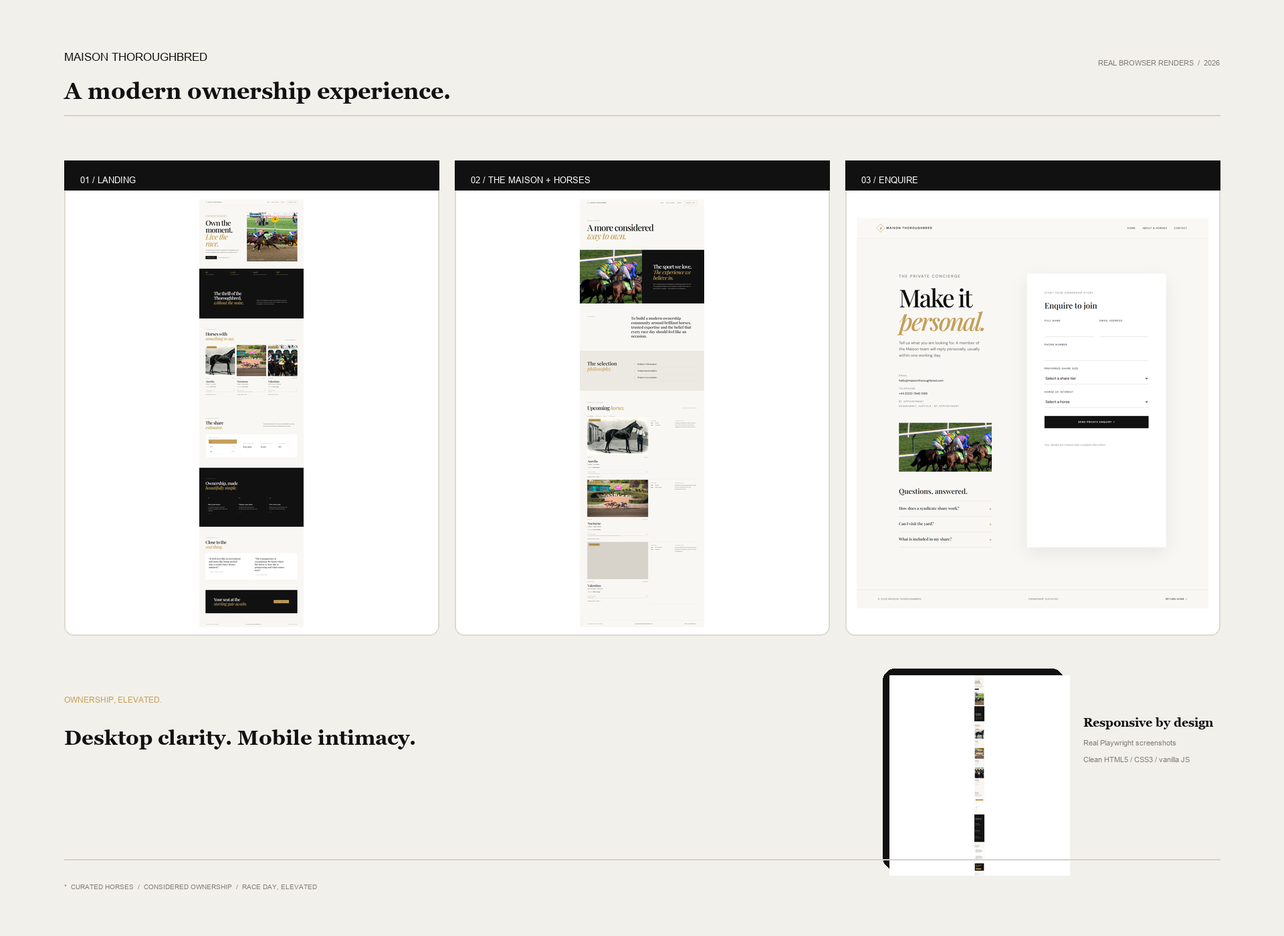
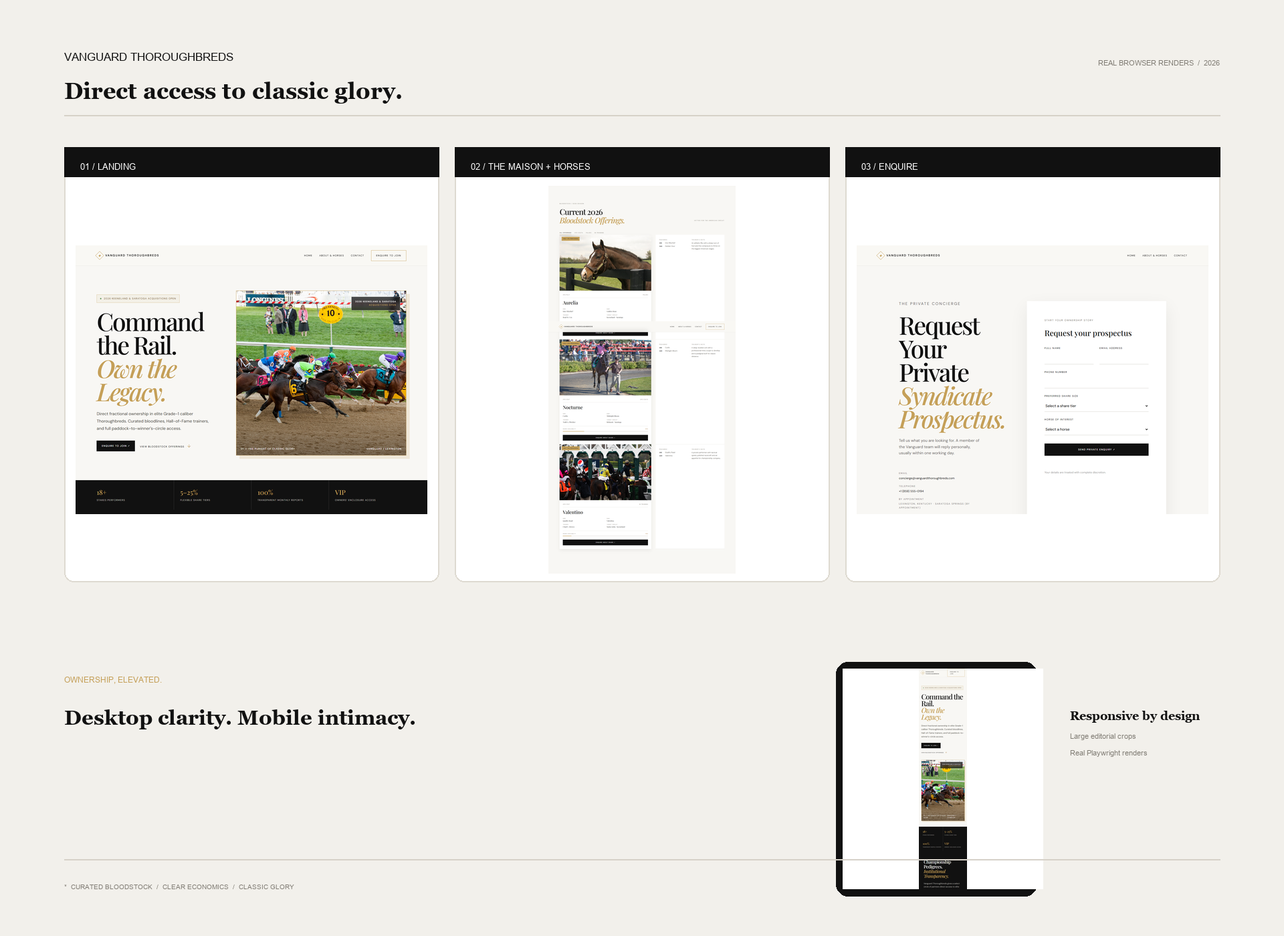
Elevate syndicate brand and presentation

diff --git a/site-content.js b/site-content.js
@@ -1,42 +1,42 @@
 // Central editing file: update the brand, inbox, copy, horse profiles and image paths here.
 window.SYNDICATE_CONFIG = {
-  brand: { name: "Maison Thoroughbred", shortName: "Maison TB", tagline: "Ownership, elevated.", colors: { charcoal: "#111111", white: "#FFFFFF", warmWhite: "#F8F7F4", gold: "#C5A059" } },
-  contact: { email: "hello@maisonthoroughbred.com", phone: "+44 (0)20 7946 0188", location: "Newmarket, Suffolk · By appointment" },
+  brand: { name: "Vanguard Thoroughbreds", shortName: "Vanguard TB", tagline: "Command the rail. Own the legacy.", colors: { charcoal: "#111111", white: "#FFFFFF", warmWhite: "#F8F7F4", gold: "#C5A059" } },
+  contact: { email: "concierge@vanguardthoroughbreds.com", phone: "+1 (859) 555-0194", location: "Lexington, Kentucky · Saratoga Springs (by appointment)" },
   images: { hero: "images/hero-racehorse.jpg", story: "images/story-horse.jpg", horses: ["images/horse-1.jpg", "images/horse-2.jpg", "images/horse-3.jpg"] },
   home: {
-    status: "2026 Racing Season · Shares now open",
-    headline: "Own the moment.<br><em>Live the race.</em>",
-    intro: "A private circle of owners, exceptional Thoroughbreds and a more considered way to experience the sport we love.",
-    valueTitle: "The thrill of the Thoroughbred, <em>without the noise.</em>",
-    valueBody: "Maison Thoroughbred curates the bloodstock, expertise and access. You join the story with complete clarity, from first gallop to winner’s enclosure.",
+    status: "2026 Keeneland & Saratoga acquisitions open",
+    headline: "Command the Rail.<br><em>Own the Legacy.</em>",
+    intro: "Direct fractional ownership in elite Grade-1 caliber Thoroughbreds. Curated bloodlines, Hall-of-Fame trainers, and full paddock-to-winner's-circle access.",
+    valueTitle: "Championship Pedigrees.<br><em>Institutional Transparency.</em>",
+    valueBody: "Vanguard Thoroughbreds gives a select circle of partners direct access to elite bloodstock, disciplined reporting and the moments that define a racing legacy.",
     metrics: [["18+", "Stakes performers"], ["5–25%", "Flexible share tiers"], ["100%", "Transparent monthly reports"], ["VIP", "Owners’ enclosure access"]],
     steps: [
-      { number: "01", title: "Meet your horse", body: "A considered shortlist of athletes chosen for pedigree, performance and potential." },
-      { number: "02", title: "Choose your share", body: "Flexible 5%, 10% and 25% tiers, structured with clarity from day one." },
-      { number: "03", title: "Live every race", body: "Stable access, monthly reports and the electric theatre of race day." }
+      { number: "01", title: "Select the bloodline", body: "Review a disciplined shortlist of Grade-1 caliber athletes selected for pedigree, athleticism and upside." },
+      { number: "02", title: "Define your equity", body: "Choose a transparent 5%, 10% or 25% ownership position with economics understood upfront." },
+      { number: "03", title: "Enter the circle", body: "Receive every training report, paddock invitation and race-day access from first work to winner's circle." }
     ],
     testimonials: [
-      ["“It feels less like an investment and more like being invited into a world I have always admired.”", "— James W., Founder & owner"],
-      ["“The transparency is exceptional. We know where the horse is, how she is progressing and what comes next.”", "— Olivia R., Maison owner"]
+      ["“Vanguard delivers the rare combination of elite access and institutional-level reporting. Every decision is made with conviction.”", "— James W., Founding Partner"],
+      ["“The bloodstock is exceptional, but the discipline around ownership is what sets this syndicate apart.”", "— Olivia R., Vanguard Partner"]
     ]
   },
   about: {
     eyebrow: "Heritage, reimagined",
-    headline: "A more considered<br><em>way to own.</em>",
-    storyTitle: "The sport we love.<br><em>The experience we believe in.</em>",
-    storyBody: "Born in Newmarket and shaped by a lifelong respect for the Thoroughbred, Maison was created for people who want to feel closer to racing — not buried in its complexity.",
-    mission: "To build a modern ownership community around brilliant horses, trusted expertise and the belief that every race day should feel like an occasion.",
-    philosophy: ["Pedigree with purpose", "Temperament matters", "Progress over promise"]
+    headline: "Built for the<br><em>Pursuit of Classic Glory.</em>",
+    storyTitle: "American racing heritage.<br><em>Modern ownership discipline.</em>",
+    storyBody: "Vanguard was built for partners who expect more from Thoroughbred ownership: uncommon bloodlines, respected trainers, precise communication and a seat inside the sport's defining moments.",
+    mission: "To compound the power of elite American racing through disciplined bloodstock selection, clear economics and a true owner's proximity to the horse.",
+    philosophy: ["Pedigree with purpose", "Athleticism under pressure", "Performance over promise"]
   },
   horses: [
-    { name: "Aurelia", category: "Fillies", age: "3yo filly", pedigree: "Frankel × Luna Mare", sire: "Frankel", dam: "Luna Mare", trainer: "Ralph Beckett", availability: "2 shares remaining", remaining: 20, image: 0, note: "A balanced, athletic filly with an electric turn of foot. Her first two starts have suggested a deep well of improvement." },
-    { name: "Nocturne", category: "2YO Colts", age: "2yo colt", pedigree: "Dubawi × Night Garden", sire: "Dubawi", dam: "Night Garden", trainer: "Charlie Appleby", availability: "Taking reservations", remaining: 55, image: 1, note: "Beautifully bred and progressing through his early education with a calm, professional attitude." },
-    { name: "Valentino", category: "In Training", age: "4yo gelding", pedigree: "Sea The Stars × Valentina", sire: "Sea The Stars", dam: "Valentina", trainer: "William Haggas", availability: "1 share remaining", remaining: 10, image: 2, note: "A proven performer with the attitude and experience to make this season his most compelling yet." }
+    { name: "Aurelia", category: "Fillies", age: "3yo filly", pedigree: "Into Mischief × Golden Hour", sire: "Into Mischief", dam: "Golden Hour", trainer: "Brad H. Cox", circuit: "Keeneland / Saratoga", availability: "Only 15% remaining", remaining: 15, image: 0, note: "An athletic filly with a sharp turn of foot and the composure to thrive on the biggest American stages." },
+    { name: "Nocturne", category: "2YO Colts", age: "2yo colt", pedigree: "Curlin × Midnight Bloom", sire: "Curlin", dam: "Midnight Bloom", trainer: "Todd A. Pletcher", circuit: "Belmont / Saratoga", availability: "Only 25% remaining", remaining: 25, image: 1, note: "A deep-bodied colt with a professional mind, scope to develop and a pedigree built for classic distance." },
+    { name: "Valentino", category: "In Training", age: "4yo colt", pedigree: "Quality Road × Valentina", sire: "Quality Road", dam: "Valentina", trainer: "Chad C. Brown", circuit: "Santa Anita / Keeneland", availability: "Only 10% remaining", remaining: 10, image: 2, note: "A proven performer with tactical speed, polished racecraft and an appetite for championship company." }
   ],
   faqs: [
     ["How does a syndicate share work?", "You own a defined percentage of a racehorse through a simple syndicate structure. We manage the day-to-day detail and keep you close to every milestone."],
     ["Can I visit the yard?", "Yes. Owners are invited to private stable mornings and selected gallops visits by appointment."],
-    ["What is included in my share?", "Your share includes the horse, training and ownership administration described in the relevant schedule, plus invitations to Maison owner experiences."]
+    ["What is included in my share?", "Your share includes the horse, training and ownership administration described in the relevant schedule, plus invitations to Vanguard partner experiences."]
   ]
 };
 
@@ -79,8 +79,8 @@ window.SYNDICATE_CONFIG = {
 
 function horseCard(horse, config) {
   return `<article class="horse-card" data-category="${horse.category}">
-    <div class="horse-image-wrap"><img src="${config.images.horses[horse.image]}" alt="${horse.name}, ${horse.pedigree}" loading="lazy"><span class="availability">${horse.availability}</span></div>
-    <div class="horse-card-body"><div class="horse-topline"><span>${horse.age}</span><span>${horse.category}</span></div><h3>${horse.name}</h3><p class="pedigree">${horse.pedigree}</p><p class="trainer">Trained by <strong>${horse.trainer}</strong></p><div class="share-row"><span>Share availability</span><strong>${horse.remaining}%</strong></div><div class="progress"><span style="width:${horse.remaining}%"></span></div><a class="text-link" href="contact.html?horse=${encodeURIComponent(horse.name)}">Enquire about share <span>↗</span></a></div>
+    <div class="horse-image-wrap"><img src="${config.images.horses[horse.image]}" alt="${horse.name}, ${horse.pedigree}" loading="eager"><span class="availability">${horse.availability}</span></div>
+    <div class="horse-card-body"><div class="horse-topline"><span>${horse.age}</span><span>${horse.category}</span></div><h3>${horse.name}</h3><div class="pedigree-grid"><span><b>Sire</b>${horse.sire}</span><span><b>Dam</b>${horse.dam}</span><span><b>Trainer</b>${horse.trainer}</span><span><b>Target circuit</b>${horse.circuit}</span></div><div class="share-row"><span>Share availability</span><strong>${horse.remaining}%</strong></div><div class="progress"><span style="width:${horse.remaining}%"></span></div><a class="button dark card-button" href="contact.html?horse=${encodeURIComponent(horse.name)}">Enquire about share <span>↗</span></a></div>
   </article>`;
 }
 

diff --git a/index.html b/index.html
@@ -1,18 +1,18 @@
 <!doctype html>
 <html lang="en">
-<head><meta charset="utf-8"><meta name="viewport" content="width=device-width, initial-scale=1"><title>Maison Thoroughbred — Ownership, elevated.</title><meta name="description" content="A private circle of owners, exceptional Thoroughbreds and a more considered way to experience racing."><link rel="preconnect" href="https://fonts.googleapis.com"><link rel="preconnect" href="https://fonts.gstatic.com" crossorigin><link href="https://fonts.googleapis.com/css2?family=DM+Sans:wght@400;500;600&family=Playfair+Display:ital,wght@0,500;1,500&display=swap" rel="stylesheet"><link rel="stylesheet" href="styles.css"><link rel="stylesheet" href="styles-enhancements.css"></head>
+<head><meta charset="utf-8"><meta name="viewport" content="width=device-width, initial-scale=1"><title>Vanguard Thoroughbreds — Command the Rail.</title><meta name="description" content="Direct fractional ownership in elite Grade-1 caliber Thoroughbreds with Vanguard Thoroughbreds."><link rel="preconnect" href="https://fonts.googleapis.com"><link rel="preconnect" href="https://fonts.gstatic.com" crossorigin><link href="https://fonts.googleapis.com/css2?family=DM+Sans:wght@400;500;600&family=Playfair+Display:ital,wght@0,500;1,500&display=swap" rel="stylesheet"><link rel="stylesheet" href="styles.css"><link rel="stylesheet" href="styles-enhancements.css"></head>
 <body data-page="home">
-<nav class="nav"><a class="logo" href="index.html"><span class="logo-mark"><span>✦</span></span><span data-brand>Maison Thoroughbred</span></a><div class="nav-links"><a href="index.html">Home</a><a href="about.html">About & Horses</a><a href="contact.html">Contact</a><a class="button" href="contact.html">Enquire to join</a></div></nav>
+<nav class="nav"><a class="logo" href="index.html"><span class="logo-mark"><span>✦</span></span><span data-brand>Vanguard Thoroughbreds</span></a><div class="nav-links"><a href="index.html">Home</a><a href="about.html">About & Horses</a><a href="contact.html">Contact</a><a class="button" href="contact.html">Enquire to join</a></div></nav>
 <main>
-<section class="hero"><div class="hero-copy"><span class="status-pill" data-status></span><h1 data-home-headline></h1><p class="intro" data-home-intro></p><div class="hero-actions"><a class="button dark" href="contact.html">Enquire to join <span>↗</span></a><a class="arrow-link" href="#horses">View upcoming horses <span>↓</span></a></div></div><div class="hero-media"><img data-hero-image alt="Thoroughbred racehorses breaking from the starting gate"><div class="media-caption"><span>01 — The pursuit of extraordinary</span><span>Maison / Newmarket</span></div></div></section>
+<section class="hero"><div class="hero-copy"><span class="status-pill" data-status></span><h1 data-home-headline></h1><p class="intro" data-home-intro></p><div class="hero-actions"><a class="button dark" href="contact.html">Enquire to join <span>↗</span></a><a class="arrow-link" href="#horses">View bloodstock offerings <span>↓</span></a></div></div><div class="hero-media"><img data-hero-image alt="Thoroughbred racehorses breaking from the starting gate" loading="eager"><span class="live-stat">2026 KEENELAND &amp; SARATOGA<br><b>ACQUISITIONS OPEN</b></span><div class="media-caption"><span>01 — The pursuit of classic glory</span><span>Vanguard / Lexington</span></div></div></section>
 <section class="metrics" data-metrics></section>
 <section class="value"><h2 data-value-title></h2><p data-value-body></p></section>
-<section class="section" id="horses"><div class="section-heading"><div><p class="eyebrow">The 2026 collection</p><h2>Horses with<br><em>something to say.</em></h2></div><a class="arrow-link" href="about.html">View all bloodstock <span>↗</span></a></div><div class="horse-grid-preview" data-home-horses></div></section>
-<section class="section estimator"><div class="section-heading"><div><p class="eyebrow">Your ownership, modelled</p><h2>The share<br><em>estimator.</em></h2></div><p class="intro">A simple illustration of how your participation can look. Every horse and share is individually structured.</p></div><div class="estimator-box"><div class="share-options"><p class="eyebrow">Choose your share</p><button class="share-option active" data-share="5">5%<span>Entry</span></button><button class="share-option" data-share="10">10%<span>Classic</span></button><button class="share-option" data-share="25">25%<span>Principal</span></button></div><div class="estimate-results"><div><span>Example upfront share</span><strong data-cost>£12,500</strong></div><div><span>Estimated monthly keep</span><strong data-keep>£225</strong></div><div><span>Prize money split</span><strong data-prize>5%</strong></div></div></div></section>
-<section class="section dark-section"><div class="section-heading"><div><p class="eyebrow">The Maison method</p><h2>Ownership, made<br><em>beautifully simple.</em></h2></div></div><div class="editorial-cards" data-steps></div></section>
-<section class="section"><div class="section-heading"><div><p class="eyebrow">The owner’s perspective</p><h2>Close to the<br><em>real thing.</em></h2></div></div><div class="testimonials" data-testimonials></div></section>
+<section class="section" id="horses"><div class="section-heading"><div><p class="eyebrow">The 2026 collection</p><h2>Current 2026<br><em>Bloodstock Offerings.</em></h2></div><a class="arrow-link" href="about.html">View all bloodstock <span>↗</span></a></div><div class="horse-grid-preview" data-home-horses></div></section>
+<section class="section estimator"><div class="section-heading"><div><p class="eyebrow">Your ownership, modelled</p><h2>Transparent Ownership<br><em>Economics.</em></h2></div><p class="intro">An illustrative view of your equity position. Every acquisition is individually structured and disclosed in full.</p></div><div class="estimator-box"><div class="share-options"><p class="eyebrow">Choose your share</p><button class="share-option active" data-share="5">5%<span>Entry</span></button><button class="share-option" data-share="10">10%<span>Classic</span></button><button class="share-option" data-share="25">25%<span>Principal</span></button></div><div class="estimate-results"><div><span>Initial acquisition</span><strong data-cost>$12,500</strong></div><div><span>Monthly training &amp; keep</span><strong data-keep>$225</strong></div><div><span>Equity share</span><strong data-prize>5%</strong></div></div></div></section>
+<section class="section dark-section"><div class="section-heading"><div><p class="eyebrow">The Vanguard method</p><h2>From the Sales Ring<br><em>to the Winner's Circle.</em></h2></div></div><div class="editorial-cards" data-steps></div></section>
+<section class="section"><div class="section-heading"><div><p class="eyebrow">The partner perspective</p><h2>Inside the<br><em>Owners' Circle.</em></h2></div></div><div class="testimonials" data-testimonials></div></section>
 <section class="cta"><h2>Your seat at the<br><em>starting gate awaits.</em></h2><a class="button gold" href="contact.html">Begin the conversation <span>↗</span></a></section>
-</main><footer class="footer"><span>© 2026 <span data-brand>Maison Thoroughbred</span></span><a data-email></a><span>Ownership, elevated.</span></footer>
+</main><footer class="footer"><span>© 2026 <span data-brand>Vanguard Thoroughbreds</span></span><a data-email></a><span>Ownership, elevated.</span></footer>
 <script src="site-content.js"></script><script>
-const shares={5:{cost:"£12,500",keep:"£225"},10:{cost:"£25,000",keep:"£450"},25:{cost:"£62,500",keep:"£1,125"}};document.querySelectorAll("[data-share]").forEach((button)=>button.addEventListener("click",()=>{document.querySelectorAll("[data-share]").forEach((item)=>item.classList.remove("active"));button.classList.add("active");const share=button.dataset.share;document.querySelector("[data-cost]").textContent=shares[share].cost;document.querySelector("[data-keep]").textContent=shares[share].keep;document.querySelector("[data-prize]").textContent=`${share}%`;}));
+const shares={5:{cost:"$12,500",keep:"$225"},10:{cost:"$25,000",keep:"$450"},25:{cost:"$62,500",keep:"$1,125"}};document.querySelectorAll("[data-share]").forEach((button)=>button.addEventListener("click",()=>{document.querySelectorAll("[data-share]").forEach((item)=>item.classList.remove("active"));button.classList.add("active");const share=button.dataset.share;document.querySelector("[data-cost]").textContent=shares[share].cost;document.querySelector("[data-keep]").textContent=shares[share].keep;document.querySelector("[data-prize]").textContent=`${share}%`;}));
 </script></body></html>

diff --git a/contact.html b/contact.html
@@ -1,11 +1,11 @@
 <!doctype html>
 <html lang="en">
-<head><meta charset="utf-8"><meta name="viewport" content="width=device-width, initial-scale=1"><title>Enquire to Join — Maison Thoroughbred</title><meta name="description" content="Speak with the Maison Thoroughbred concierge about racehorse ownership."><link rel="preconnect" href="https://fonts.googleapis.com"><link rel="preconnect" href="https://fonts.gstatic.com" crossorigin><link href="https://fonts.googleapis.com/css2?family=DM+Sans:wght@400;500;600&family=Playfair+Display:ital,wght@0,500;1,500&display=swap" rel="stylesheet"><link rel="stylesheet" href="styles.css"></head>
+<head><meta charset="utf-8"><meta name="viewport" content="width=device-width, initial-scale=1"><title>Private Prospectus — Vanguard Thoroughbreds</title><meta name="description" content="Request a private Vanguard Thoroughbreds syndicate prospectus."><link rel="preconnect" href="https://fonts.googleapis.com"><link rel="preconnect" href="https://fonts.gstatic.com" crossorigin><link href="https://fonts.googleapis.com/css2?family=DM+Sans:wght@400;500;600&family=Playfair+Display:ital,wght@0,500;1,500&display=swap" rel="stylesheet"><link rel="stylesheet" href="styles.css"></head>
 <body data-page="contact">
-<nav class="nav"><a class="logo" href="index.html"><span class="logo-mark"><span>✦</span></span><span data-brand>Maison Thoroughbred</span></a><div class="nav-links"><a href="index.html">Home</a><a href="about.html">About & Horses</a><a href="contact.html">Contact</a></div></nav>
-<main class="contact-layout"><section class="contact-copy"><p class="eyebrow">The private concierge</p><h1>Make it<br><em>personal.</em></h1><p>Tell us what you are looking for. A member of the Maison team will reply personally, usually within one working day.</p><div class="contact-details"><p><span>Email</span><a data-email></a></p><p><span>Telephone</span><a data-phone></a></p><p><span>By appointment</span><span data-location></span></p></div><div class="contact-hero"><img data-contact-hero alt="Thoroughbred in the stable yard" loading="lazy"></div><div class="faq"><h2>Questions, answered.</h2><div data-faqs></div></div></section>
-<section class="form-card"><p class="eyebrow">Start your ownership story</p><h2>Enquire to join</h2><form id="enquiry-form" method="POST" novalidate><input type="hidden" name="_subject" value="New Maison Thoroughbred enquiry"><div class="form-grid"><div class="field"><label for="name">Full name</label><input id="name" name="name" autocomplete="name" required></div><div class="field"><label for="email">Email address</label><input id="email" name="email" type="email" autocomplete="email" required></div></div><div class="field"><label for="phone">Phone number</label><input id="phone" name="phone" type="tel" autocomplete="tel" required></div><div class="field"><label for="share">Preferred share size</label><select id="share" name="share" required><option value="">Select a share tier</option><option>5% — Entry</option><option>10% — Classic</option><option>25% — Principal</option></select></div><div class="field"><label for="interest">Horse of interest</label><select id="interest" name="interest" data-horse-options required></select></div><button class="submit" type="submit">Send private enquiry <span>↗</span></button><p class="status" id="form-status" role="status"></p><p class="fine-print">Your details are treated with complete discretion.</p></form></section></main>
-<footer class="footer"><span>© 2026 <span data-brand>Maison Thoroughbred</span></span><span>Ownership, elevated.</span><a href="index.html">Return home ↗</a></footer>
+<nav class="nav"><a class="logo" href="index.html"><span class="logo-mark"><span>✦</span></span><span data-brand>Vanguard Thoroughbreds</span></a><div class="nav-links"><a href="index.html">Home</a><a href="about.html">About & Horses</a><a href="contact.html">Contact</a></div></nav>
+<main class="contact-layout"><section class="contact-copy"><p class="eyebrow">The private concierge</p><h1>Request Your Private<br><em>Syndicate Prospectus.</em></h1><p>Tell us what you are looking for. A member of the Vanguard team will reply personally, usually within one working day.</p><div class="contact-details"><p><span>Email</span><a data-email></a></p><p><span>Telephone</span><a data-phone></a></p><p><span>By appointment</span><span data-location></span></p></div><div class="contact-hero"><img data-contact-hero alt="Thoroughbred in the stable yard" loading="eager"></div><div class="faq"><h2>Questions, answered.</h2><div data-faqs></div></div></section>
+<section class="form-card"><p class="eyebrow">Start your ownership story</p><h2>Request your prospectus</h2><form id="enquiry-form" method="POST" novalidate><input type="hidden" name="_subject" value="New Vanguard Thoroughbreds prospectus request"><div class="form-grid"><div class="field"><label for="name">Full name</label><input id="name" name="name" autocomplete="name" required></div><div class="field"><label for="email">Email address</label><input id="email" name="email" type="email" autocomplete="email" required></div></div><div class="field"><label for="phone">Phone number</label><input id="phone" name="phone" type="tel" autocomplete="tel" required></div><div class="field"><label for="share">Preferred share size</label><select id="share" name="share" required><option value="">Select a share tier</option><option>5% — Entry</option><option>10% — Classic</option><option>25% — Principal</option></select></div><div class="field"><label for="interest">Horse of interest</label><select id="interest" name="interest" data-horse-options required></select></div><button class="submit" type="submit">Send private enquiry <span>↗</span></button><p class="status" id="form-status" role="status"></p><p class="fine-print">Your details are treated with complete discretion.</p></form></section></main>
+<footer class="footer"><span>© 2026 <span data-brand>Vanguard Thoroughbreds</span></span><span>Ownership, elevated.</span><a href="index.html">Return home ↗</a></footer>
 <script src="site-content.js"></script><script>
 const config=window.SYNDICATE_CONFIG,form=document.getElementById("enquiry-form"),status=document.getElementById("form-status"),interest=document.getElementById("interest"),horse=new URLSearchParams(location.search).get("horse");if(horse)interest.value=horse;form.action=`https://formsubmit.co/${config.contact.email}`;form.addEventListener("submit",(event)=>{event.preventDefault();status.className="status";const empty=[...form.querySelectorAll("[required]")].find((field)=>!field.value.trim()),email=document.getElementById("email");if(empty){status.textContent=`Please add your ${empty.labels[0].textContent.toLowerCase()}.`;status.classList.add("error");empty.focus();return;}if(!/^[^\s@]+@[^\s@]+\.[^\s@]+$/.test(email.value)){status.textContent="Please enter a valid email address.";status.classList.add("error");email.focus();return;}status.textContent="Sending your private enquiry…";fetch(form.action,{method:"POST",body:new FormData(form),headers:{Accept:"application/json"}}).then((response)=>{if(!response.ok)throw new Error("Unable to send");status.textContent="Thank you — your enquiry is on its way.";status.classList.add("success");form.reset();}).catch(()=>{const data=[...new FormData(form)].map(([key,value])=>`${key}: ${value}`).join("%0A");window.location.href=`mailto:${config.contact.email}?subject=New enquiry from ${encodeURIComponent(document.getElementById("name").value)}&body=${data}`;status.textContent="Opening your email app to complete the enquiry.";status.classList.add("success");});});
 </script></body></html>

diff --git a/about.html b/about.html
@@ -1,11 +1,11 @@
 <!doctype html>
 <html lang="en">
-<head><meta charset="utf-8"><meta name="viewport" content="width=device-width, initial-scale=1"><title>About & Upcoming Horses — Maison Thoroughbred</title><meta name="description" content="Discover Maison Thoroughbred's heritage, bloodstock philosophy and upcoming horses."><link rel="preconnect" href="https://fonts.googleapis.com"><link rel="preconnect" href="https://fonts.gstatic.com" crossorigin><link href="https://fonts.googleapis.com/css2?family=DM+Sans:wght@400;500;600&family=Playfair+Display:ital,wght@0,500;1,500&display=swap" rel="stylesheet"><link rel="stylesheet" href="styles.css"></head>
+<head><meta charset="utf-8"><meta name="viewport" content="width=device-width, initial-scale=1"><title>About & Upcoming Horses — Vanguard Thoroughbreds</title><meta name="description" content="Discover Vanguard Thoroughbreds' heritage, bloodstock philosophy and upcoming horses."><link rel="preconnect" href="https://fonts.googleapis.com"><link rel="preconnect" href="https://fonts.gstatic.com" crossorigin><link href="https://fonts.googleapis.com/css2?family=DM+Sans:wght@400;500;600&family=Playfair+Display:ital,wght@0,500;1,500&display=swap" rel="stylesheet"><link rel="stylesheet" href="styles.css"><link rel="stylesheet" href="styles-enhancements.css"></head>
 <body data-page="about">
-<nav class="nav"><a class="logo" href="index.html"><span class="logo-mark"><span>✦</span></span><span data-brand>Maison Thoroughbred</span></a><div class="nav-links"><a href="index.html">Home</a><a href="about.html">About & Horses</a><a href="contact.html">Contact</a><a class="button" href="contact.html">Enquire to join</a></div></nav>
+<nav class="nav"><a class="logo" href="index.html"><span class="logo-mark"><span>✦</span></span><span data-brand>Vanguard Thoroughbreds</span></a><div class="nav-links"><a href="index.html">Home</a><a href="about.html">About & Horses</a><a href="contact.html">Contact</a><a class="button" href="contact.html">Enquire to join</a></div></nav>
 <main><header class="page-head"><p class="eyebrow" data-about-eyebrow></p><h1 data-about-headline></h1></header>
 <section class="story"><div class="story-image"><img data-story-image alt="Thoroughbred horse in a paddock" loading="eager"></div><div class="story-copy"><h2 data-story-title></h2><p data-story-body></p></div></section>
 <section class="mission"><p class="eyebrow">Our mission</p><p data-mission></p></section>
 <section class="philosophy"><h2>The selection<br><em>philosophy.</em></h2><ul data-philosophy></ul></section>
-<section class="horses"><div class="section-heading"><div><p class="eyebrow">Bloodstock / 2026 season</p><h2>Upcoming <em>horses.</em></h2></div><p class="eyebrow">Selected with intention</p></div><div class="filter-tabs"><button class="active" data-filter="All">All horses</button><button data-filter="2YO Colts">2YO colts</button><button data-filter="Fillies">Fillies</button><button data-filter="In Training">In training</button></div><div class="horse-showcase" data-horse-grid></div></section>
-</main><footer class="footer"><span>© 2026 <span data-brand>Maison Thoroughbred</span></span><a data-email></a><span><a href="contact.html">Start a conversation ↗</a></span></footer><script src="site-content.js"></script></body></html>
+<section class="horses"><div class="section-heading"><div><p class="eyebrow">Bloodstock / 2026 season</p><h2>Current 2026<br><em>Bloodstock Offerings.</em></h2></div><p class="eyebrow">Vetted for the American circuit</p></div><div class="filter-tabs"><button class="active" data-filter="All">All offerings</button><button data-filter="2YO Colts">2YO colts</button><button data-filter="Fillies">Fillies</button><button data-filter="In Training">In training</button></div><div class="horse-showcase" data-horse-grid></div></section>
+</main><footer class="footer"><span>© 2026 <span data-brand>Vanguard Thoroughbreds</span></span><a data-email></a><span><a href="contact.html">Start a conversation ↗</a></span></footer><script src="site-content.js"></script></body></html>

diff --git a/styles-enhancements.css b/styles-enhancements.css
@@ -13,4 +13,16 @@
 .dark-section .editorial-cards{background:#393838}
 .dark-section .editorial-card{background:var(--charcoal)}
 .dark-section .editorial-card p{color:#bcbab5}
+.hero-media{border:1px solid var(--gold);box-shadow:14px 14px 0 rgba(197,160,89,.18)}
+.live-stat{position:absolute;z-index:2;top:24px;right:24px;padding:13px 15px;border:1px solid rgba(255,255,255,.55);color:var(--white);background:rgba(17,17,17,.75);font-size:9px;letter-spacing:.16em;line-height:1.55;text-align:right;text-transform:uppercase;backdrop-filter:blur(8px)}
+.live-stat b{color:var(--gold);font-weight:500}
+.horse-card{background:var(--white);box-shadow:0 12px 30px rgba(17,17,17,.06)}
+.horse-card-body{padding:24px 25px 28px}
+.horse-topline{padding-bottom:14px;border-bottom:1px solid var(--line)}
+.pedigree-grid{display:grid;grid-template-columns:1fr 1fr;gap:14px 20px;margin:20px 0 22px}
+.pedigree-grid span{display:flex;flex-direction:column;gap:3px;color:#444;font:13px/1.35 var(--serif)}
+.pedigree-grid b{color:var(--muted);font:9px var(--sans);letter-spacing:.12em;text-transform:uppercase}
+.card-button{width:100%;margin-top:5px;text-align:center}
+.horse-detail{background:var(--white);padding:25px 28px 45px}
 @media(max-width:760px){.estimator-box{display:block}.share-options{border-right:0;border-bottom:1px solid var(--line);padding:30px 25px}.estimate-results{grid-template-columns:1fr;padding:30px 25px}}
+@media(max-width:760px){.hero-media{box-shadow:8px 8px 0 rgba(197,160,89,.18)}.live-stat{top:15px;right:15px;font-size:8px}.horse-card-body{padding:22px 20px 25px}.pedigree-grid{gap:12px 15px}}

diff --git a/generate_showcase.py b/generate_showcase.py
@@ -42,11 +42,29 @@ def render_pages():
         desktop = browser.new_page(viewport={"width": 1440, "height": 900}, device_scale_factor=1)
         for filename, screenshot, _ in PAGES:
             desktop.goto((ROOT / filename).as_uri(), wait_until="domcontentloaded")
-            desktop.wait_for_timeout(2500)
+            try:
+                desktop.wait_for_load_state("networkidle", timeout=15000)
+            except Exception:
+                pass
+            desktop.wait_for_timeout(1500)
+            desktop.evaluate("window.scrollTo(0, document.body.scrollHeight)")
+            desktop.wait_for_timeout(800)
+            desktop.evaluate("window.scrollTo(0, 0)")
+            desktop.wait_for_timeout(400)
             desktop.screenshot(path=str(ROOT / screenshot), full_page=True)
+            if filename == "about.html":
+                desktop.locator(".horses").screenshot(path=str(ROOT / "About_Upcoming_Horses_Grid.png"))
         mobile = browser.new_page(viewport={"width": 390, "height": 844}, device_scale_factor=1)
         mobile.goto((ROOT / "index.html").as_uri(), wait_until="domcontentloaded")
-        mobile.wait_for_timeout(2500)
+        try:
+            mobile.wait_for_load_state("networkidle", timeout=15000)
+        except Exception:
+            pass
+        mobile.wait_for_timeout(1500)
+        mobile.evaluate("window.scrollTo(0, document.body.scrollHeight)")
+        mobile.wait_for_timeout(700)
+        mobile.evaluate("window.scrollTo(0, 0)")
+        mobile.wait_for_timeout(300)
         mobile.screenshot(path=str(ROOT / "Mobile_Responsive_View.png"), full_page=True)
         browser.close()
 
@@ -62,31 +80,40 @@ def fit_image(image, size):
 def compose_board():
     board = Image.new("RGB", (W, H), BG)
     draw = ImageDraw.Draw(board)
-    label(draw, (96, 75), "MAISON THOROUGHBRED", 17)
-    label(draw, (96, 116), "A modern ownership experience.", 34, serif=True)
+    label(draw, (96, 75), "VANGUARD THOROUGHBREDS", 17)
+    label(draw, (96, 116), "Direct access to classic glory.", 34, serif=True)
     label(draw, (1824, 88), "REAL BROWSER RENDERS  /  2026", 11, MUTED, anchor="ra")
     draw.line((96, 172, 1824, 172), fill="#D6D1C8", width=2)
 
-    boxes = [(96, 240, 560, 710), (680, 240, 560, 710), (1264, 240, 560, 710)]
-    for (filename, screenshot, title), (x, y, width, height) in zip(PAGES, boxes):
+    boxes = [(96, 220, 560, 650), (680, 220, 560, 650), (1264, 220, 560, 650)]
+    showcase_images = [
+        ROOT / "1_Landing_Page.png",
+        ROOT / "About_Upcoming_Horses_Grid.png",
+        ROOT / "3_Contact_Page.png",
+    ]
+    for (filename, screenshot, title), showcase_image, (x, y, width, height) in zip(PAGES, showcase_images, boxes):
         draw.rounded_rectangle((x, y, x + width, y + height), 14, fill=WHITE, outline="#DEDAD1", width=2)
         draw.rectangle((x, y, x + width, y + 44), fill=CHARCOAL)
         label(draw, (x + 24, y + 22), title, 13, WHITE)
-        browser_image = Image.open(ROOT / screenshot)
+        browser_image = Image.open(showcase_image)
+        if showcase_image.name == "1_Landing_Page.png":
+            browser_image = browser_image.crop((0, 0, min(browser_image.width, 1440), min(browser_image.height, 1100)))
+        elif showcase_image.name == "3_Contact_Page.png":
+            browser_image = browser_image.crop((0, 0, min(browser_image.width, 1440), min(browser_image.height, 1100)))
         preview = fit_image(browser_image, (width - 34, height - 70))
         board.paste(preview, (x + 17, y + 58))
 
-    label(draw, (96, 1040), "OWNERSHIP, ELEVATED.", 12, GOLD)
-    label(draw, (96, 1085), "Desktop clarity. Mobile intimacy.", 31, serif=True)
-    mobile = fit_image(Image.open(ROOT / "Mobile_Responsive_View.png"), (270, 300))
-    x, y = 1320, 1000
-    draw.rounded_rectangle((x, y, x + 270, y + 300), 18, fill=CHARCOAL)
+    label(draw, (96, 1010), "OWNERSHIP, ELEVATED.", 12, GOLD)
+    label(draw, (96, 1055), "Desktop clarity. Mobile intimacy.", 31, serif=True)
+    mobile = fit_image(Image.open(ROOT / "Mobile_Responsive_View.png").crop((0, 0, 390, min(1800, Image.open(ROOT / "Mobile_Responsive_View.png").height))), (300, 330))
+    x, y = 1250, 990
+    draw.rounded_rectangle((x, y, x + 300, y + 350), 18, fill=CHARCOAL)
     board.paste(mobile, (x + 10, y + 10))
-    label(draw, (1620, 1070), "Responsive by design", 18, serif=True)
-    label(draw, (1620, 1105), "Real Playwright screenshots", 11, MUTED)
-    label(draw, (1620, 1130), "Clean HTML5 / CSS3 / vanilla JS", 11, MUTED)
+    label(draw, (1600, 1060), "Responsive by design", 18, serif=True)
+    label(draw, (1600, 1095), "Large editorial crops", 11, MUTED)
+    label(draw, (1600, 1120), "Real Playwright renders", 11, MUTED)
     draw.line((96, 1285, 1824, 1285), fill="#D6D1C8", width=2)
-    label(draw, (96, 1320), "*  CURATED HORSES  /  CONSIDERED OWNERSHIP  /  RACE DAY, ELEVATED", 10, MUTED)
+    label(draw, (96, 1320), "*  CURATED BLOODSTOCK  /  CLEAR ECONOMICS  /  CLASSIC GLORY", 10, MUTED)
     board.save(BOARD, "PNG", optimize=True)
 
 

diff --git a/download_racehorse_images.py b/download_racehorse_images.py
@@ -8,7 +8,9 @@ from urllib.parse import urlencode
 from urllib.request import Request, urlopen
 import json
 import re
-from PIL import Image
+import time
+from urllib.error import HTTPError, URLError
+from PIL import Image, ImageStat
 from io import BytesIO
 
 ROOT = Path(__file__).parent
@@ -33,7 +35,7 @@ def search_images():
             "generator": "search",
             "gsrsearch": f"filetype:bitmap {term}",
             "gsrnamespace": 6,
-            "gsrlimit": 20,
+            "gsrlimit": 50,
             "prop": "imageinfo",
             "iiprop": "url|size|mime",
             "iiurlwidth": 2200,
@@ -44,6 +46,8 @@ def search_images():
             if not url or url in seen or info.get("mime") not in {"image/jpeg", "image/png"}:
                 continue
             seen.add(url)
+            if info.get("width", 0) < 1200 or info.get("height", 0) < 700:
+                continue
             pages.append((page.get("title", "Wikimedia image"), url))
     if len(pages) < len(JPG_NAMES):
         raise RuntimeError(f"Only found {len(pages)} usable Wikimedia images")
@@ -57,13 +61,48 @@ def safe_filename(name):
 def download():
     IMAGE_DIR.mkdir(exist_ok=True)
     selected = search_images()
-    for filename, (title, url) in zip(JPG_NAMES, selected):
+    valid_existing = []
+    for filename in JPG_NAMES:
+        path = IMAGE_DIR / filename
+        try:
+            with Image.open(path) as existing:
+                stat = ImageStat.Stat(existing.convert("RGB").resize((80, 80)))
+                valid = existing.format == "JPEG" and existing.mode == "RGB" and path.stat().st_size > 30_000 and max(stat.mean) - min(stat.mean) >= 5
+            valid_existing.append(valid)
+        except (FileNotFoundError, OSError):
+            valid_existing.append(False)
+    downloaded = sum(valid_existing)
+    if downloaded:
+        print(f"Retaining {downloaded} existing validated color JPEG(s)")
+    for title, url in selected:
+        if downloaded == len(JPG_NAMES):
+            break
         request = Request(url, headers={"User-Agent": "MaisonThoroughbred/1.0 image downloader"})
-        with urlopen(request, timeout=60) as response:
-            data = response.read()
+        data = None
+        for attempt in range(4):
+            try:
+                with urlopen(request, timeout=60) as response:
+                    data = response.read()
+                break
+            except (HTTPError, URLError):
+                time.sleep(3 + attempt * 2)
+        if data is None:
+            continue
         image = Image.open(BytesIO(data)).convert("RGB")
+        if len(data) < 30_000:
+            continue
+        stat = ImageStat.Stat(image.resize((80, 80)))
+        channel_spread = max(stat.mean) - min(stat.mean)
+        if channel_spread < 5:
+            continue
+        filename = next(filename for index, filename in enumerate(JPG_NAMES) if not valid_existing[index])
         image.save(IMAGE_DIR / filename, "JPEG", quality=94, optimize=True)
         print(f"{filename}: {image.width}x{image.height} | {title} | {safe_filename(url)[:70]}")
+        downloaded += 1
+        valid_existing[JPG_NAMES.index(filename)] = True
+        time.sleep(1)
+    if downloaded != len(JPG_NAMES):
+        raise RuntimeError(f"Only downloaded {downloaded} vibrant JPEGs")
 
 
 def verify():
@@ -73,7 +112,7 @@ def verify():
             raise RuntimeError(f"Missing {path}")
         with Image.open(path) as image:
             image.verify()
-            if image.format != "JPEG":
+            if image.format != "JPEG" or path.stat().st_size <= 30_000 or image.mode != "RGB":
                 raise RuntimeError(f"{filename} is {image.format}, not JPEG")
         print(f"Verified JPEG: {path}")
 

diff --git a/README-SETUP.md b/README-SETUP.md
@@ -1,4 +1,4 @@
-# Maison Thoroughbred — 2-minute setup
+# Vanguard Thoroughbreds — 2-minute setup
 
 ## 1. Put the files online
 
@@ -9,7 +9,7 @@ Keep all files in the same folder and upload them to your web host, including th
 Open `site-content.js` in any text editor. Find:
 
 ```js
-email: "hello@maisonthoroughbred.com"
+email: "concierge@vanguardthoroughbreds.com"
 ```
 
 Replace the address with your inbox. The contact links and enquiry form will update automatically. FormSubmit may send a one-time confirmation email the first time you use a new address.
